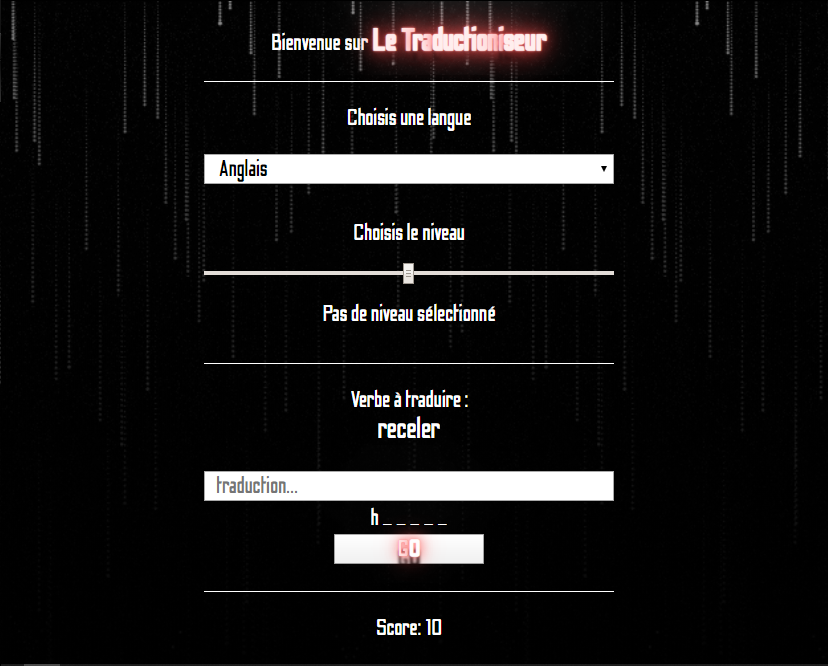
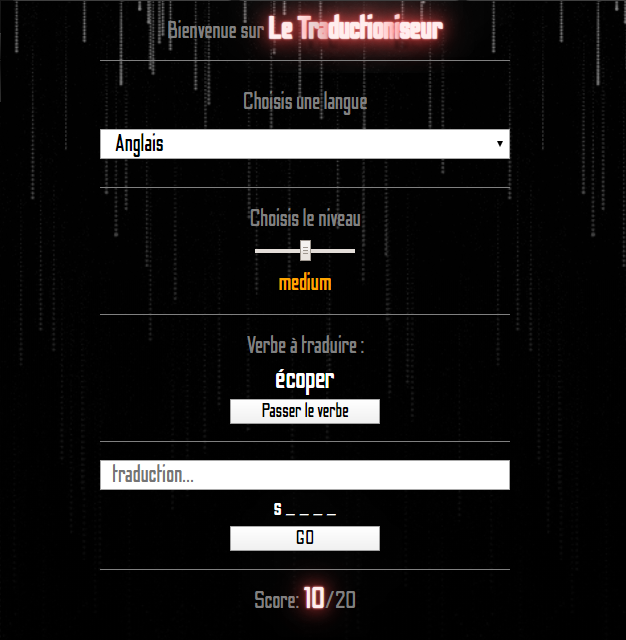
few corrections + added score to obtain to win

diff --git a/public/script/script.js b/public/script/script.js
@@ -49,7 +49,7 @@ const checkTranslation = e => {
   let container;
   e.target ? (container = e.target.parentNode) : buttonVerb;
   const verbInput = container.querySelector(".input.verb").value.toLowerCase();
-  if (!verbInput) return alert("entrez une traduction pour jouer");
+  if (!verbInput) return alert("entre une traduction avant d'envoyer");
   checkResult(verbInput === translation);
   container.querySelector(".input.verb").value = "";
 };

diff --git a/views/index.html b/views/index.html
@@ -54,7 +54,8 @@
 
     <div class="separator"></div>
 
-    <div class="scoreContainer">Score: <span class="score">10</span></div>
+    <div class="scoreContainer">Score: <span class="score">10</span>/20</div>
+    <div class="footer"></div>
   </div>
 </body>
 

diff --git a/public/style/style.css b/public/style/style.css
@@ -135,6 +135,10 @@
   text-shadow: 0 -40px 100px, 0 0 2px, 0 0 1em #ff4444, 0 0 0.5em #ff4444, 0 0 0.1em #ff4444, 0 10px 3px #000;
 }
 
+.footer {
+  height: 20px;
+}
+
 .logo b span {
   animation: blink linear infinite 2s;
   font-size: inherit;
